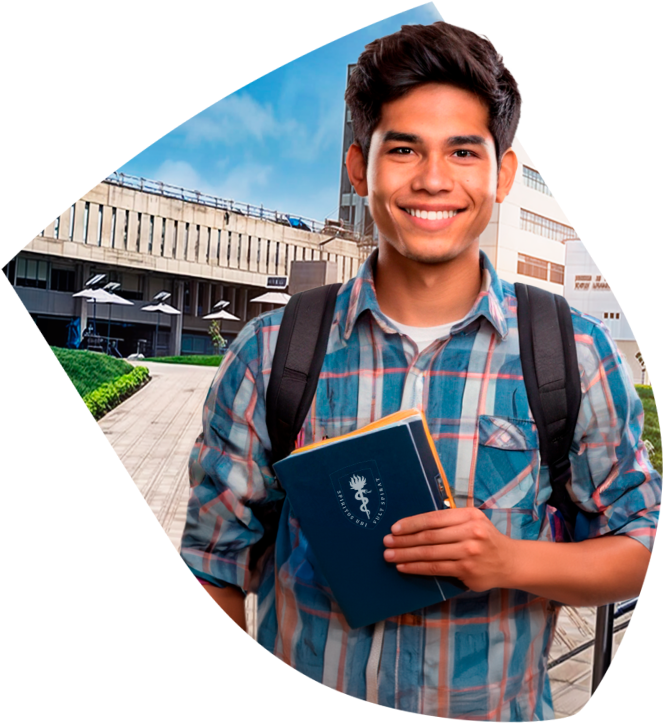
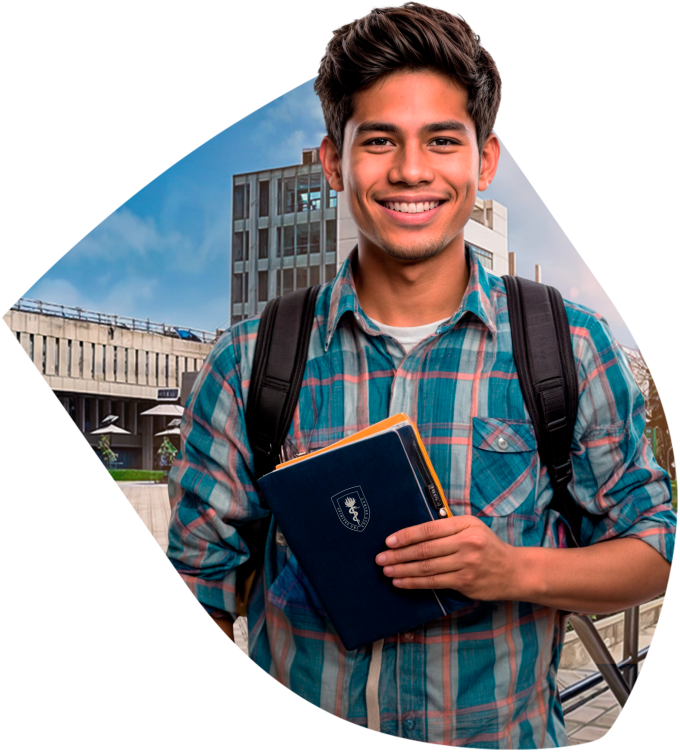
update06431907

diff --git a/src/scss/bloque5/_bloque5.scss b/src/scss/bloque5/_bloque5.scss
@@ -41,33 +41,96 @@
     left: 6.8rem;
     bottom: 2.2rem;
     @include m.desktop_1020 {
-        left: 25.8rem;
-        bottom: 0.2rem;
+        left: 13.8rem;
+        bottom: 1.5rem;
     }
-    @include m.desktop_1220 {
+    @include m.desktop_1080 {
+        bottom: .5rem;
+    }
+    @include m.desktop_1120 {
+        left: 19.8rem;    
+    }
+    @include m.desktop_1140 {
         left: 15.8rem;
     }
-    @include m.desktop_1360 {
-        left: 21.8rem;
+    @include m.desktop_1200 {
+        left: 31.8rem;    
+    }
+    @include m.desktop_1220 {
+        left: 30.8rem;
+    }
+    @include m.desktop_1280 {
+        left: 36.8rem;
+    }
+    @include m.desktop_1300 {
+        left: 39.8rem;    
+    }
+    @include m.desktop_1340 {
+        left: 43.8rem;
+    }
+    @include m.desktop_1380 {
+        left: 47.8rem;
+    }
+    @include m.desktop_1420 {
+        left: 51.8rem;
+    }
+    @include m.desktop_1460 {
+        left: 55.8rem;    
+    }
+    @include m.desktop_1500 {
+        left: 59.8rem;    
+    }
+    @include m.desktop_1520 {
+        left: 61.8rem;
     }
     img {
         width: 60rem;
-        @include m.desktop_1220 {
-            width: 90rem;
+        @include m.desktop_1020 {
+            width: 70rem;
         }
+        @include m.desktop_1080 {
+            width: 75rem;    
+        }
+        @include m.desktop_1220 {
+            width: 78rem;
+        }
+        // @include m.desktop_1220 {
+        //     width: 90rem;
+        // }
     }
 }
 
 .bloque5ImageDesktop2 {
     right: 0;
     bottom: 2rem;
+    @include m.desktop_1020 {
+        bottom: 0;
+    }
+    @include m.desktop_1080 {
+        bottom: -1rem;
+    }
+    @include m.desktop_1140 {
+        bottom: -3rem;
+    }
+    @include m.desktop_1200 {
+        bottom: -2rem;
+    }
     @include m.desktop_1220 {
-        bottom: -13rem;
+        bottom: -1.5rem;
     }
     img {
         width: 10rem;
-        @include m.desktop_1220 {
-            width: 25rem;
+        @include m.desktop_1020 {
+            width: 14rem;
+        }
+        @include m.desktop_1080 {
+            width: 16rem;
+        }
+        @include m.desktop_1140 {
+            width: 18rem;
+        }
+        @include m.desktop_1200 {
+            width: 14rem;
         }
     }
 }
@@ -172,10 +235,14 @@
     @include m.desktop_1020 {
       height: auto;
       position: relative;
-      display: flex;
       justify-content: center;
       margin-top: 2rem;
       overflow: visible;
+      height: 40rem;
+      width: 100% !important;
+    }
+    @include m.desktop_1220 {
+        height: 43rem;
     }
     @include m.desktop_1360 {
       margin-top: 4rem;
@@ -199,6 +266,8 @@
         max-width: 95rem;
         display: grid !important;
         grid-template-columns: repeat(4, 1fr);
+        height: 40rem;
+        width: 90rem;
     }
 }
   
@@ -209,7 +278,31 @@
     // margin-bottom: 3rem;
     @include m.desktop_1020 {
         overflow: visible !important;
+        padding-top: 1rem;
+        height: 100%;
+        position: absolute;
+        margin-top: 6rem;
+        // background-color: purple;
+        width: 100%;
+        // display: grid;
+        grid-template-columns: repeat(3, 1fr);
     }
+    @include m.desktop_1220 {
+        padding-top: 3rem;
+    }
+}
+
+.slider__item3 {
+    transform: scale(.85) !important;
+}
+
+.slider__item3.swiper-slide-next {
+    // background-color: green;
+    transform: scale(1.08) !important;
+}
+
+.slider__item3-active {
+    background-color: purple !important;
 }
 
 .slider__item3.swiper-slide {
@@ -226,7 +319,7 @@
     }
     @include m.desktop_1020 {
         padding-bottom: 0;
-        margin-top: 4rem !important;
+        // margin-top: 4rem !important;
         overflow: visible !important;
     }
   }
@@ -267,8 +360,12 @@
     width: 80%;
   }
   @include m.desktop_1020 {
-    height: 25rem;
+    height: 23rem;
     width: 85%;
+  }
+  @include m.desktop_1220 {
+    height: 26rem;
+    width: 93%;
   }
 }
 
@@ -280,6 +377,9 @@
     top: -3.8rem;
     img {
         width: 10rem;
+        @include m.desktop_1220 {
+            width: 12rem;
+        }
     }
 }
 
@@ -290,6 +390,9 @@
     text-align: center;
     padding-top: 1.5rem;
     position: relative;
+    @include m.desktop_1220 {
+        padding-top: 2.5rem;
+    }
     h3, h4 {
         margin: 0;
         display: grid;
@@ -298,15 +401,24 @@
     h3 {
         font-size: 1.4rem;
         font-weight: 800;
+        @include m.desktop_1220 {
+            font-size: 1.7rem;
+        }
     }
     h4 {
         font-size: 1.2rem;
         font-weight: 500;
+        @include m.desktop_1220 {
+            font-size: 1.4rem;
+        }
     }
     .testimonioNameImage {
         position: absolute;
         top: -2rem;
         left: 1.5rem;
+        @include m.desktop_1140 {
+            left: 2.5rem;
+        }
         img {
             width: 3rem;
         }
@@ -318,6 +430,9 @@
     display: block;
     height: 1rem;
     border-bottom: 1px dashed;
+    @include m.desktop_1220 {
+        padding-top: 2rem;
+    }
 }
 
 .testimonioDescription {
@@ -332,6 +447,9 @@
         font-size: 1.3rem;
         padding: 0 1rem;
         font-weight: 500;
+        @include m.desktop_1220 {
+            font-size: 1.5rem;
+        }
     }
 }
 
@@ -354,6 +472,12 @@
     @include m.phone_414 {
         bottom: .5rem !important;
     }
+    @include m.desktop_1020 {
+        bottom: 5rem !important;
+    }
+    @include m.desktop_1220 {
+        bottom: 1rem !important;
+    }
 }
 
 .swiper-button-next3 {
@@ -370,6 +494,13 @@
     }
     @include m.tablet_768 {
         right: 5rem !important;
+    }
+    @include m.desktop_1020 {
+        right: -2rem !important;
+    }
+    @include m.desktop_1360 {
+        right: -4rem !important;
+        top: 47%;
     }
     img {
         height: 100%;
@@ -391,6 +522,15 @@
     }
     @include m.tablet_768 {
         left: 5rem !important;
+    }
+    @include m.desktop_1020 {
+        left: -2rem !important;
+    }
+    @include m.desktop_1360 {
+        left: -4rem !important;
+    }
+    @include m.desktop_1360 {
+        top: 47%;
     }
     img {
         height: 100%;

diff --git a/src/scss/bloque3/_bloque3.scss b/src/scss/bloque3/_bloque3.scss
@@ -71,6 +71,15 @@
   }
 }
 
+.slider__other {
+  height: 100%;
+  position: absolute;
+  background-color: green;
+  width: 100%;
+  display: grid;
+  grid-template-columns: repeat(3, 1fr);
+}
+
 .bloque3Title {
     height: 6rem;
     display: grid;
@@ -81,6 +90,7 @@
     }
     h3 {
         font-size: 1.7rem;
+        font-weight: 700;
         @include m.desktop_1020 {
           font-size: 3rem !important;
         }
@@ -248,10 +258,16 @@
       right: 10rem !important;
     }
     @include m.desktop_1220 {
-      right: 20em !important;
+      right: 20rem !important;
     }
     @include m.desktop_1360 {
-      right: 25rem !important;
+      right: 28rem !important;
+    }
+    @include m.desktop_1420 {
+      right: 30rem !important;
+    }
+    @include m.desktop_1500 {
+      right: 34rem !important;
     }
     img {
         height: 100%;
@@ -286,7 +302,13 @@
       left: 20rem !important;
     }
     @include m.desktop_1360 {
-      left: 25rem !important;
+      left: 28rem !important;
+    }
+    @include m.desktop_1420 {
+      left: 30rem !important;
+    }
+    @include m.desktop_1500 {
+      left: 34rem !important;
     }
     img {
         height: 100%;

diff --git a/src/js/script.js b/src/js/script.js
@@ -124,6 +124,7 @@ window.addEventListener("load", () => {
                 return '<span class="bullet ' + className + '"></span>';
             }
         },
+        loop: true,
         breakpoints: {
             760: {
                 slidesPerView: 2,
@@ -131,7 +132,7 @@ window.addEventListener("load", () => {
             },
             999: {
                 slidesPerView: 3,
-                slidesPerColumn: 1
+                slidesPerColumn: 3
             },
         }
     });

diff --git a/src/scss/bloque7/_bloque7.scss b/src/scss/bloque7/_bloque7.scss
@@ -56,11 +56,12 @@ background: linear-gradient(180deg, rgba(255,255,255,1) 14%, rgba(255,12,41,1) 1
     h3 {
         color: white;
         font-size: 1.6rem;
+        font-weight: 700;
         @include m.phone_375 {
-            font-size: 1.8rem;    
+            font-size: 2rem;    
         }
         @include m.desktop_1020 {
-            font-size: 2.3rem;
+            font-size: 2.5rem;
         }
     }
     h4 {

diff --git a/src/scss/bloque2/_bloque2.scss b/src/scss/bloque2/_bloque2.scss
@@ -176,7 +176,7 @@
       // background-color: yellow;
       // align-items: flex-start;
       display: grid !important;
-      width: 20rem;
+      width: 100%;
       height: 30rem;
       grid-template-columns: repeat(6, 1fr);
       grid-template-rows: repeat(2, 1fr);
